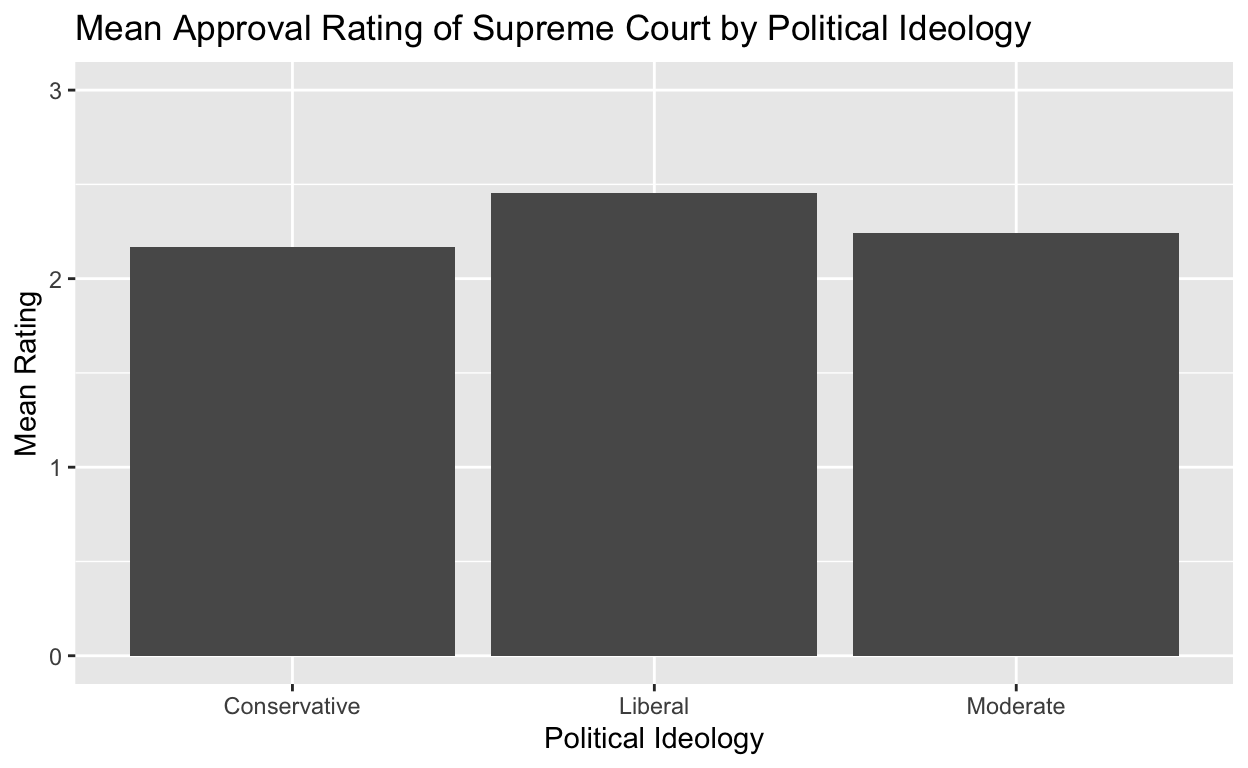
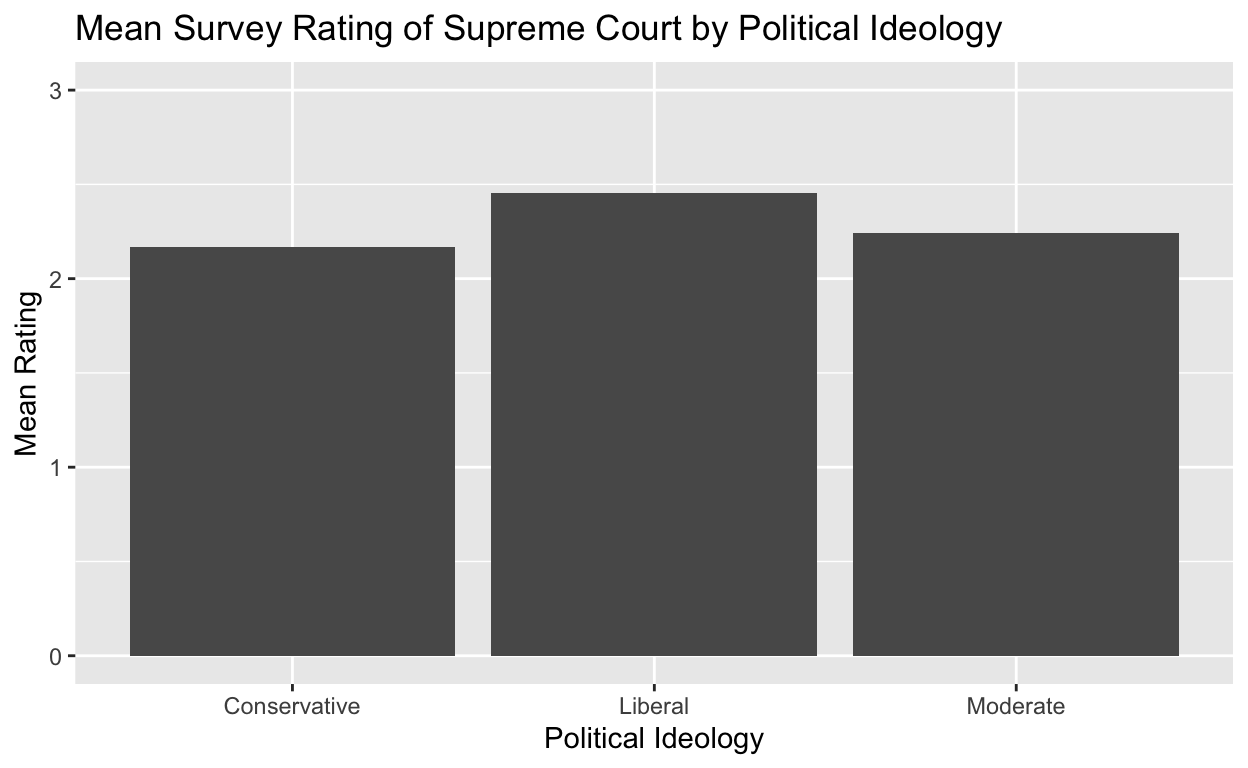
final project

Changed region(s): [[0.125, 0.0, 0.8438, 0.0625]]

diff --git a/index.html b/index.html
@@ -1521,7 +1521,7 @@ code span.wa { color: #5e5e5e; font-style: italic; } /* Warning */
 <div class="d-article">
 <h2 id="introduction">Introduction</h2>
 <p>How does political ideology affect public approval of the Supreme Court? In this final project, I examine the extent to which political ideology affects public opinion on the Supreme Court. I hypothesize that individuals who identify as liberal are more likely to disapprove of the Court than those that identify as conservative. For context, the Supreme Court is now more conservative than it has ever been in the past 90 years: with the appointment and confirmation of three conservative-leaning justices, former President Donald Trump filled more seats in a single term than any president since Franklin Delano Roosevelt. As such, a majority of Americans currently feel a disconnect from the Court as recent controversial decisions on topics such as abortion, environmental regulations, and affirmative action appear to run contrary to popular opinion.</p>
-<p>My explanatory variable of interest is the political ideology of the respondents (labeled as <code>political_ideology</code> in the dataset), while my outcome variable is the favorability of respondents’ opinion towards the Supreme Court (labeled as <code>scotus_opinion</code>). If I observe greater unfavorable approval ratings for the Supreme Court among liberals than conservatives on average, that would support my hypothesis. On the other hand, if I observe greater unfavorable approval ratings among conservatives than liberals on average, that would provide evidence against my hypothesis.</p>
+<p>My explanatory variable of interest is the political ideology of the respondents (labeled as <code>political_ideology</code> in the dataset), while my outcome variable is the favorability of respondents’ opinion towards the Supreme Court (labeled as <code>scotus_opinion</code>). As a note, the terms “public opinion” and “approval rating” are used interchangeably in this project. If I observe greater unfavorable approval ratings for the Supreme Court among liberals than conservatives on average, that would support my hypothesis. On the other hand, if I observe greater unfavorable approval ratings among conservatives than liberals on average, that would provide evidence against my hypothesis. When I run the regression on political ideology and Supreme Court public opinion, a positive, significant coefficient would support my hypothesis.</p>
 <div class="layout-chunk" data-layout="l-body">
 <div class="sourceCode">
 <pre class="sourceCode r"><code class="sourceCode r"><span><span class='kw'><a href='https://rdrr.io/r/base/library.html'>library</a></span><span class='op'>(</span><span class='va'><a href='https://haven.tidyverse.org'>haven</a></span><span class='op'>)</span></span>
@@ -1829,10 +1829,10 @@ code span.wa { color: #5e5e5e; font-style: italic; } /* Warning */
 <span>  <span class='fu'><a href='https://dplyr.tidyverse.org/reference/summarise.html'>summarize</a></span><span class='op'>(</span>mean <span class='op'>=</span> <span class='fu'><a href='https://rdrr.io/r/base/mean.html'>mean</a></span><span class='op'>(</span><span class='va'>scotus_opinion</span><span class='op'>)</span><span class='op'>)</span></span>
 <span></span>
 <span><span class='va'>t3</span> <span class='op'>|&gt;</span></span>
-<span>  <span class='fu'>knitr</span><span class='fu'>::</span><span class='fu'><a href='https://rdrr.io/pkg/knitr/man/kable.html'>kable</a></span><span class='op'>(</span>col.names <span class='op'>=</span> <span class='fu'><a href='https://rdrr.io/r/base/c.html'>c</a></span><span class='op'>(</span><span class='st'>"Political Ideology"</span>, <span class='st'>"Mean Rating"</span><span class='op'>)</span>, digits <span class='op'>=</span> <span class='fl'>2</span>, caption <span class='op'>=</span> <span class='st'>"Mean Approval Rating of Supreme Court by Political Ideology"</span><span class='op'>)</span></span></code></pre>
+<span>  <span class='fu'>knitr</span><span class='fu'>::</span><span class='fu'><a href='https://rdrr.io/pkg/knitr/man/kable.html'>kable</a></span><span class='op'>(</span>col.names <span class='op'>=</span> <span class='fu'><a href='https://rdrr.io/r/base/c.html'>c</a></span><span class='op'>(</span><span class='st'>"Political Ideology"</span>, <span class='st'>"Mean Rating"</span><span class='op'>)</span>, digits <span class='op'>=</span> <span class='fl'>2</span>, caption <span class='op'>=</span> <span class='st'>"Mean Survey Rating of Supreme Court by Political Ideology"</span><span class='op'>)</span></span></code></pre>
 </div>
 <table>
-<caption><span id="tab:unnamed-chunk-10">Table 3: </span>Mean Approval Rating of Supreme Court by Political Ideology</caption>
+<caption><span id="tab:unnamed-chunk-10">Table 3: </span>Mean Survey Rating of Supreme Court by Political Ideology</caption>
 <thead>
 <tr class="header">
 <th style="text-align: left;">Political Ideology</th>
@@ -1861,7 +1861,7 @@ code span.wa { color: #5e5e5e; font-style: italic; } /* Warning */
 <span>  <span class='fu'><a href='https://ggplot2.tidyverse.org/reference/labs.html'>labs</a></span><span class='op'>(</span></span>
 <span>    x <span class='op'>=</span> <span class='st'>"Political Ideology"</span>,</span>
 <span>    y <span class='op'>=</span> <span class='st'>"Mean Rating"</span>, </span>
-<span>    title <span class='op'>=</span> <span class='st'>"Mean Approval Rating of Supreme Court by Political Ideology"</span></span>
+<span>    title <span class='op'>=</span> <span class='st'>"Mean Survey Rating of Supreme Court by Political Ideology"</span></span>
 <span>  <span class='op'>)</span> <span class='op'>+</span></span>
 <span>  <span class='fu'><a href='https://ggplot2.tidyverse.org/reference/lims.html'>ylim</a></span><span class='op'>(</span><span class='fl'>0</span>,<span class='fl'>3</span><span class='op'>)</span></span></code></pre>
 </div>
